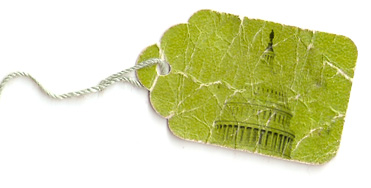
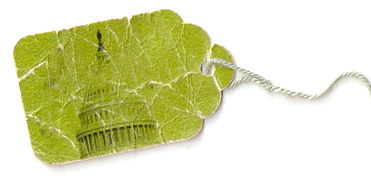
updates

diff --git a/media/styles/style.css b/media/styles/style.css
@@ -194,7 +194,7 @@ h4.subhead_lite { margin:0; font-weight:thin;}
 label.field { display:block;}
 
 /* DONATE */
-#donate_box { width:300px; background-color:#ffffff;}
+
 #donate_box_front { width:300px; background-color:#ffffff; padding:15px; border:1px solid #c6c6c6;}
 
 
@@ -204,9 +204,13 @@ label.field { display:block;}
 .side_nk1 { background:url(http://assets.publicequalsonline.com/media/images/sidebar_nk.jpg); background-position:bottom right; background-repeat:no-repeat;}
 .side_nk2 { background:url(http://assets.publicequalsonline.com/media/images/sidebar_nk2.jpg); background-position:right 20px; background-repeat:no-repeat;}
 .side_nk3 { background:url(http://assets.publicequalsonline.com/media/images/sidebar_nk3.jpg); background-position:right 10px; background-repeat:no-repeat;}
-.side_nk4 { background:url(http://assets.publicequalsonline.com/media/images/sidebar_nk4.jpg); background-position:right 10px; background-repeat:no-repeat;}
+.side_nk4 { background:url(http://assets.publicequalsonline.com/media/images/sidebar_nk4.jpg); background-position:bottom right; background-repeat:no-repeat;}
+
+#about_subnav { margin:0; padding:0; }
+#about_subnav li { margin:0; padding:0 20px 0 0; list-style-type:none; float:left; font-family: "sorts-mill-goudy-1","sorts-mill-goudy-2",Georgia, Cambria, "Times New Roman", Times, serif; line-height:36px; font-size:14px; color:#5a5a5a;}
 
 
+#about_header { margin:0 0 20px 0; border-top:1px solid #c6c6c6; padding:10px 0 10px 0; border-bottom:1px solid #c6c6c6; }
 
 /* GRANTS */
 #groups_content_box { width:600px; }
@@ -221,8 +225,16 @@ label.field { display:block;}
 
 #act_options li { margin:0 0 10px 0; padding:20px; list-style:none; border:1px solid #c6c6c6;}
 
+/* DONATE*/
+#donate_content_box { width:550px; margin-bottom:20px; }
+#donate_box { width:250px; background-color:#ffffff; margin-right:auto; margin-left:auto;}
+
+.side_donate { background:url(http://assets.publicequalsonline.com/media/images/donate_tag.jpg); background-position:right 100px; background-repeat:no-repeat; }
 
 /* FOOTER */
+#footer_content_box { }
+#footer_disclaimer { font-size:10px; color:#c6c6c6;}
+#license { text-align:center;}
 
 
 #sflogo_sprite{ width: 105px;}	

diff --git a/templates/about.html b/templates/about.html
@@ -13,18 +13,22 @@
 	<div id="about_content_box">
 
 		<h3 class="page_header">About the Campaign</h3>
-		<div style="margin:0 0 20px 0; border-top:1px solid #c6c6c6; padding:10px 0 10px 0; border-bottom:1px solid #c6c6c6;">
-		<h3 class="goudy" style="font-size:26px; margin:0;">
-			We seek to create a transparent government built on open data and information.
-		</h3>
-		</div>
-	<ul>
-		<li>VISION</li>
-		<li>CYCLE OF TRANSPARENCY</li>
-		<li>FUNDING</li>
-		<li>WHO WE ARE</li>
-	</ul>	
-		
+		<ul id="about_subnav">
+			<li>OVERVIEW</li>
+			<li><a href="">VISION</a></li>
+			<li><a href="">CYCLE OF TRANSPARENCY</a></li>
+			<li><a href="">FUNDING</a></li>
+			<li><a href="">WHO WE ARE</a></li>
+		</ul>	
+
+		<div id="clearfix">&nbsp;</div>
+			<div id="about_header">
+				<h3 class="goudy" style="font-size:26px; margin:0;">
+					We seek to create a transparent government built on open data and information.
+				</h3>
+			</div>
+	
+
 		
 	<p>
 		We believe an open, transparent government is more deserving of our trust, and is one that allows its citizens the ability to fully participate, collaborate and hold government accountable as our Founders intended. We also believe that open government data has the potential to create new social enterprise and spur innovation like little else.</p>

diff --git a/templates/base.html b/templates/base.html
@@ -79,7 +79,10 @@
 </div>		
 
 <div class="column span-21">
-	links go here.
+<div id="footer_content_box">
+<p>The Public=Online campaign is an initiative created by the Sunlight Foundation.</p>
+
+</div>
 	
 </div>
 <div class="column span-3 last">
@@ -87,6 +90,18 @@
 		<div id="sflogo_sprite">
 			<a id="sfsprite" href="http://www.sunlightfoundation.com"></a>
 		</div>
+	</div>
+</div>
+
+<div class="column span-24">
+	<div id="footer_disclaimer">
+		<p>This site may contain links to Internet sites that are not operated by the Sunlight Foundation, a 501 (c)(3) nonprofit, nonpartisan organization. These links are provided as a service and do not imply any endorsement of the activities or content of these sites, nor any association with their operators, by either the Sunlight Foundation or the Public=Online campaign.</p>
+		<p>Sunlight Foundation does not control these Internet sites and is not responsible for their content, security, or privacy practices. We urge you to review the privacy policy posted on web sites you visit before using the site or providing personal information.</p>
+	</div>
+	
+	<div id="license">
+		<p>This work by the Sunlight Foundation is licensed under a Creative Commons Attribution 3.0 United States License.</p>
+		
 	</div>
 	
 </div>

diff --git a/templates/actnow.html b/templates/actnow.html
@@ -8,7 +8,11 @@
 		<div id="contentpage" class="side_nk4">
 			<div id="actnow_content_box">
 				<h3 class="page_header">ACT NOW</h3>
-				<p>There are several ways you can help us. Jake will write this.</p>
+				<p>Signing <a href="/pledge/">the pledge</a> is only the first step.  It is through this pledge that we will build political clout strong enough to move government. Groups in every city, county and state capitol need to lobby their representatives to open up government by putting public information online in real time. Grassroots pressure is the only thing that will open up government and keep it open. 
+					</p><p>
+					But the campaign isn't just about making sure your voice is heard: it's also about creating narratives on why open government is valuable, training citizens on how to use technology and so much more. There are a thousand things we can do together - many of which we don't even know yet - but first we must come together.  For the first few weeks, that is our focus. It will also be a lot of fun. Join the campaign and find a group in your area! Thank you!
+
+				</p>
 
 <ul id="act_options">
 	<li><a href="/pledge/">Sign the Pledge</a></li>

diff --git a/templates/donate.html b/templates/donate.html
@@ -5,10 +5,20 @@
 
 {% block body %}
 <div class="column span-24">
-		<div id="contentpage">
+		<div id="contentpage" class="side_donate">
 	<h3 class="page_header">Donate to the Campaign</h3>
+
 	
-	<p>Copy coming from Jake</p>
+	<div id="donate_content_box">	
+	
+	<p>Your donation to the Public=Online campaign goes to the Sunlight Foundation, a 501 (c)(3) nonprofit, nonpartisan organization, and is tax deductible.
+		</p><p>
+
+	The Sunlight Foundation is the primary funder of the campaign and makes these tools and resources free to use for individuals and organizations nationwide.
+</p><p>
+	Your donation will help us fuel these individuals and organizations in their fight to put all public information online and in real time.
+</p><p>
+	It's a great time to donate: all donations will be matched, which doubles your impact!</p>
 
 <div id="donate_box">
 	<script type="text/javascript"> 
@@ -42,7 +52,7 @@
 	    </table>
 	</form>
 </div>
-
+</div>
 	
 </div>	
 </div>
